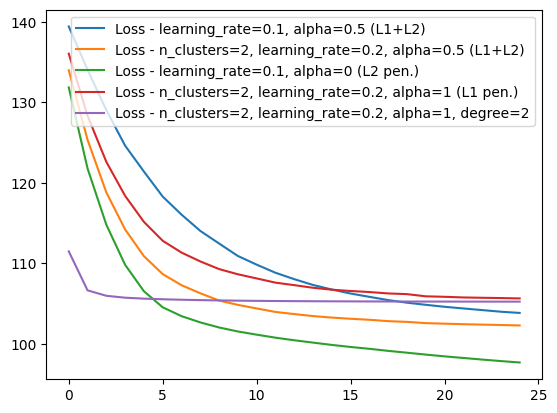
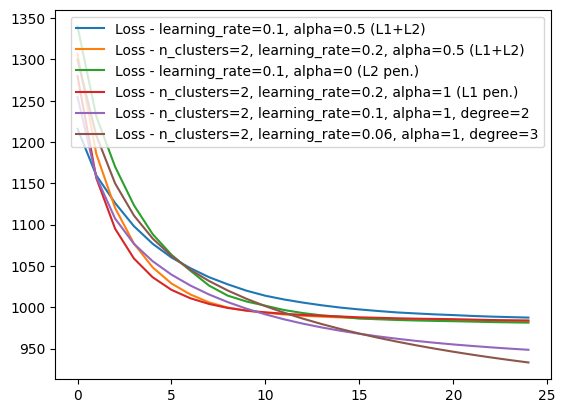
update 2nd image (loss function convergence)

diff --git a/_posts/2024-04-29-lsboost-poly.md b/_posts/2024-04-29-lsboost-poly.md
@@ -164,7 +164,7 @@ obj1.fit(X_train, y_train)
 print(f"\n Elapsed: {time()-start}")
 print(f"loss: {obj1.obj['loss']}")
 
-obj2 = ms.LSBoostRegressor(n_clusters=2, learning_rate=0.2, solver="enet",
+obj2 = ms.LSBoostRegressor(n_clusters=2, learning_rate=0.2, solver="enet", 
                            n_estimators=25)
 print(obj2.get_params())
 start = time()
@@ -172,7 +172,7 @@ obj2.fit(X_train, y_train)
 print(f"\n Elapsed: {time()-start}")
 print(f"loss: {obj2.obj['loss']}")
 
-obj3 = ms.LSBoostRegressor(n_clusters=2, learning_rate=0.2, solver="enet",
+obj3 = ms.LSBoostRegressor(n_clusters=2, learning_rate=0.2, solver="enet", 
                            n_estimators=25, alpha=0)
 print(obj3.get_params())
 start = time()
@@ -180,7 +180,7 @@ obj3.fit(X_train, y_train)
 print(f"\n Elapsed: {time()-start}")
 print(f"loss: {obj3.obj['loss']}")
 
-obj4 = ms.LSBoostRegressor(n_clusters=2, learning_rate=0.2, solver="enet",
+obj4 = ms.LSBoostRegressor(n_clusters=2, learning_rate=0.2, solver="enet", 
                            n_estimators=25, alpha=1)
 print(obj4.get_params())
 start = time()
@@ -188,7 +188,7 @@ obj4.fit(X_train, y_train)
 print(f"\n Elapsed: {time()-start}")
 print(f"loss: {obj4.obj['loss']}")
 
-obj5 = ms.LSBoostRegressor(n_clusters=2, learning_rate=0.2, solver="enet",
+obj5 = ms.LSBoostRegressor(n_clusters=2, learning_rate=0.1, solver="enet", 
                            n_estimators=25, alpha=1, degree=2)
 print(obj5.get_params())
 start = time()
@@ -196,69 +196,28 @@ obj5.fit(X_train, y_train)
 print(f"\n Elapsed: {time()-start}")
 print(f"loss: {obj5.obj['loss']}")
 
+obj6 = ms.LSBoostRegressor(n_clusters=2, learning_rate=0.06, solver="enet", 
+                           n_estimators=25, alpha=1, degree=3)
+print(obj6.get_params())
+start = time()
+obj6.fit(X_train, y_train)
+print(f"\n Elapsed: {time()-start}")
+print(f"loss: {obj6.obj['loss']}")
 
 # Plotting the lines with labels
 plt.plot(obj1.obj['loss'], label='Loss - learning_rate=0.1, alpha=0.5 (L1+L2)')
 plt.plot(obj2.obj['loss'], label='Loss - n_clusters=2, learning_rate=0.2, alpha=0.5 (L1+L2)')
 plt.plot(obj3.obj['loss'], label='Loss - learning_rate=0.1, alpha=0 (L2 pen.)')
 plt.plot(obj4.obj['loss'], label='Loss - n_clusters=2, learning_rate=0.2, alpha=1 (L1 pen.)')
-plt.plot(obj5.obj['loss'], label='Loss - n_clusters=2, learning_rate=0.2, alpha=1, degree=2')
+plt.plot(obj5.obj['loss'], label='Loss - n_clusters=2, learning_rate=0.1, alpha=1, degree=2')
+plt.plot(obj6.obj['loss'], label='Loss - n_clusters=2, learning_rate=0.06, alpha=1, degree=3')
 
 # Displaying the legend
 plt.legend()
 
 # Show the plot
 plt.show()
-
 ```
-
-    {'activation': 'relu', 'alpha': 0.5, 'backend': 'cpu', 'cluster_scaling': 'standard', 'clustering_method': 'kmeans', 'col_sample': 1, 'degree': 0, 'direct_link': 1, 'dropout': 0, 'kernel': None, 'learning_rate': 0.1, 'n_clusters': 0, 'n_estimators': 25, 'n_hidden_features': 5, 'reg_lambda': 0.1, 'replications': None, 'row_sample': 1, 'seed': 123, 'solver': 'enet', 'tolerance': 0.0001, 'type_pi': None, 'verbose': 1}
-
-
-    100%|██████████| 25/25 [00:00<00:00, 47.55it/s]
-
-
-    
-     Elapsed: 0.5511448383331299
-    loss: [139.4354291181404, 134.04860172435463, 129.03704407555875, 124.61992090034947, 121.40657221231528, 118.29722826228726, 116.0586796182525, 114.03187153272418, 112.46589723152815, 110.91617268708922, 109.83817740965685, 108.83140089329949, 108.03339225985236, 107.31107218851054, 106.74696561474326, 106.24728675392203, 105.83624710221372, 105.43061331833108, 105.10885864438998, 104.84726156958487, 104.6004194476885, 104.39348029601547, 104.1902981736055, 103.98754676300594, 103.83640154671413]
-    {'activation': 'relu', 'alpha': 0.5, 'backend': 'cpu', 'cluster_scaling': 'standard', 'clustering_method': 'kmeans', 'col_sample': 1, 'degree': 0, 'direct_link': 1, 'dropout': 0, 'kernel': None, 'learning_rate': 0.2, 'n_clusters': 2, 'n_estimators': 25, 'n_hidden_features': 5, 'reg_lambda': 0.1, 'replications': None, 'row_sample': 1, 'seed': 123, 'solver': 'enet', 'tolerance': 0.0001, 'type_pi': None, 'verbose': 1}
-
-
-    100%|██████████| 25/25 [00:00<00:00, 38.39it/s]
-
-
-    
-     Elapsed: 0.818737268447876
-    loss: [133.99068400971234, 125.34899781758122, 118.81439186169462, 114.2065839785141, 110.89199116823127, 108.6632906200425, 107.28352102111089, 106.27779161258653, 105.37816545333398, 104.83746195637701, 104.3924327210331, 103.9605256119815, 103.69362395896887, 103.44599872477694, 103.25816556316416, 103.1113827199278, 102.98555567782437, 102.81463416446454, 102.72467961038245, 102.56794496516358, 102.50207696487394, 102.43635148400048, 102.38351774624878, 102.3353390515508, 102.28040658406701]
-    {'activation': 'relu', 'alpha': 0, 'backend': 'cpu', 'cluster_scaling': 'standard', 'clustering_method': 'kmeans', 'col_sample': 1, 'degree': 0, 'direct_link': 1, 'dropout': 0, 'kernel': None, 'learning_rate': 0.2, 'n_clusters': 2, 'n_estimators': 25, 'n_hidden_features': 5, 'reg_lambda': 0.1, 'replications': None, 'row_sample': 1, 'seed': 123, 'solver': 'enet', 'tolerance': 0.0001, 'type_pi': None, 'verbose': 1}
-
-
-    100%|██████████| 25/25 [00:00<00:00, 35.58it/s]
-
-
-    
-     Elapsed: 0.8718903064727783
-    loss: [131.86362748424415, 121.78836293839404, 114.7942241393109, 109.81305727402513, 106.52982461570632, 104.53698341110132, 103.43711830704014, 102.66014534085303, 102.0290328230347, 101.53196714619348, 101.13653642251832, 100.76244643310258, 100.43993149453821, 100.14792721545851, 99.86115860023098, 99.60671481524858, 99.37868525070988, 99.12166989810993, 98.89375784569046, 98.65892652244924, 98.4390070995436, 98.2396329270718, 98.04168541594527, 97.85287791146655, 97.67911238188505]
-    {'activation': 'relu', 'alpha': 1, 'backend': 'cpu', 'cluster_scaling': 'standard', 'clustering_method': 'kmeans', 'col_sample': 1, 'degree': 0, 'direct_link': 1, 'dropout': 0, 'kernel': None, 'learning_rate': 0.2, 'n_clusters': 2, 'n_estimators': 25, 'n_hidden_features': 5, 'reg_lambda': 0.1, 'replications': None, 'row_sample': 1, 'seed': 123, 'solver': 'enet', 'tolerance': 0.0001, 'type_pi': None, 'verbose': 1}
-
-
-    100%|██████████| 25/25 [00:02<00:00, 12.44it/s]
-
-
-    
-     Elapsed: 2.0565598011016846
-    loss: [136.0548156094128, 128.3375760646074, 122.60976291353313, 118.38212020636537, 115.15294063696274, 112.80382509739829, 111.33788072698884, 110.23901729385085, 109.28636442755926, 108.64103084049539, 108.12424759573145, 107.60104359686447, 107.28948200200561, 106.96416400066711, 106.72476067118077, 106.56320649382118, 106.43213481870976, 106.25997068482286, 106.17285564398698, 105.90038447774012, 105.84192168484296, 105.760298648814, 105.71968675085114, 105.68599468010764, 105.63893336547038]
-    {'activation': 'relu', 'alpha': 1, 'backend': 'cpu', 'cluster_scaling': 'standard', 'clustering_method': 'kmeans', 'col_sample': 1, 'degree': 2, 'direct_link': 1, 'dropout': 0, 'kernel': None, 'learning_rate': 0.2, 'n_clusters': 2, 'n_estimators': 25, 'n_hidden_features': 5, 'reg_lambda': 0.1, 'replications': None, 'row_sample': 1, 'seed': 123, 'solver': 'enet', 'tolerance': 0.0001, 'type_pi': None, 'verbose': 1}
-
-
-    100%|██████████| 25/25 [00:03<00:00,  6.73it/s]
-
-
-    
-     Elapsed: 3.9757931232452393
-    loss: [111.4866474356533, 106.6426178890959, 105.96652736220898, 105.73027817932079, 105.61130062816889, 105.53571011105976, 105.4761027412948, 105.42890209756975, 105.39139060173062, 105.36148684966663, 105.33758493904953, 105.31829398244282, 105.3026655765702, 105.28998257594097, 105.27967513834588, 105.27128836109804, 105.26445764217611, 105.2588897553494, 105.25434819349432, 105.25064173117914, 105.24761543824263, 105.24514357611025, 105.24312395236538, 105.24147341339146, 105.24012423128893]
-
-
 ![pres-image]({{base}}/images/2024-04-29/2024-04-29-image2.png){:class="img-responsive"}        
 
 
